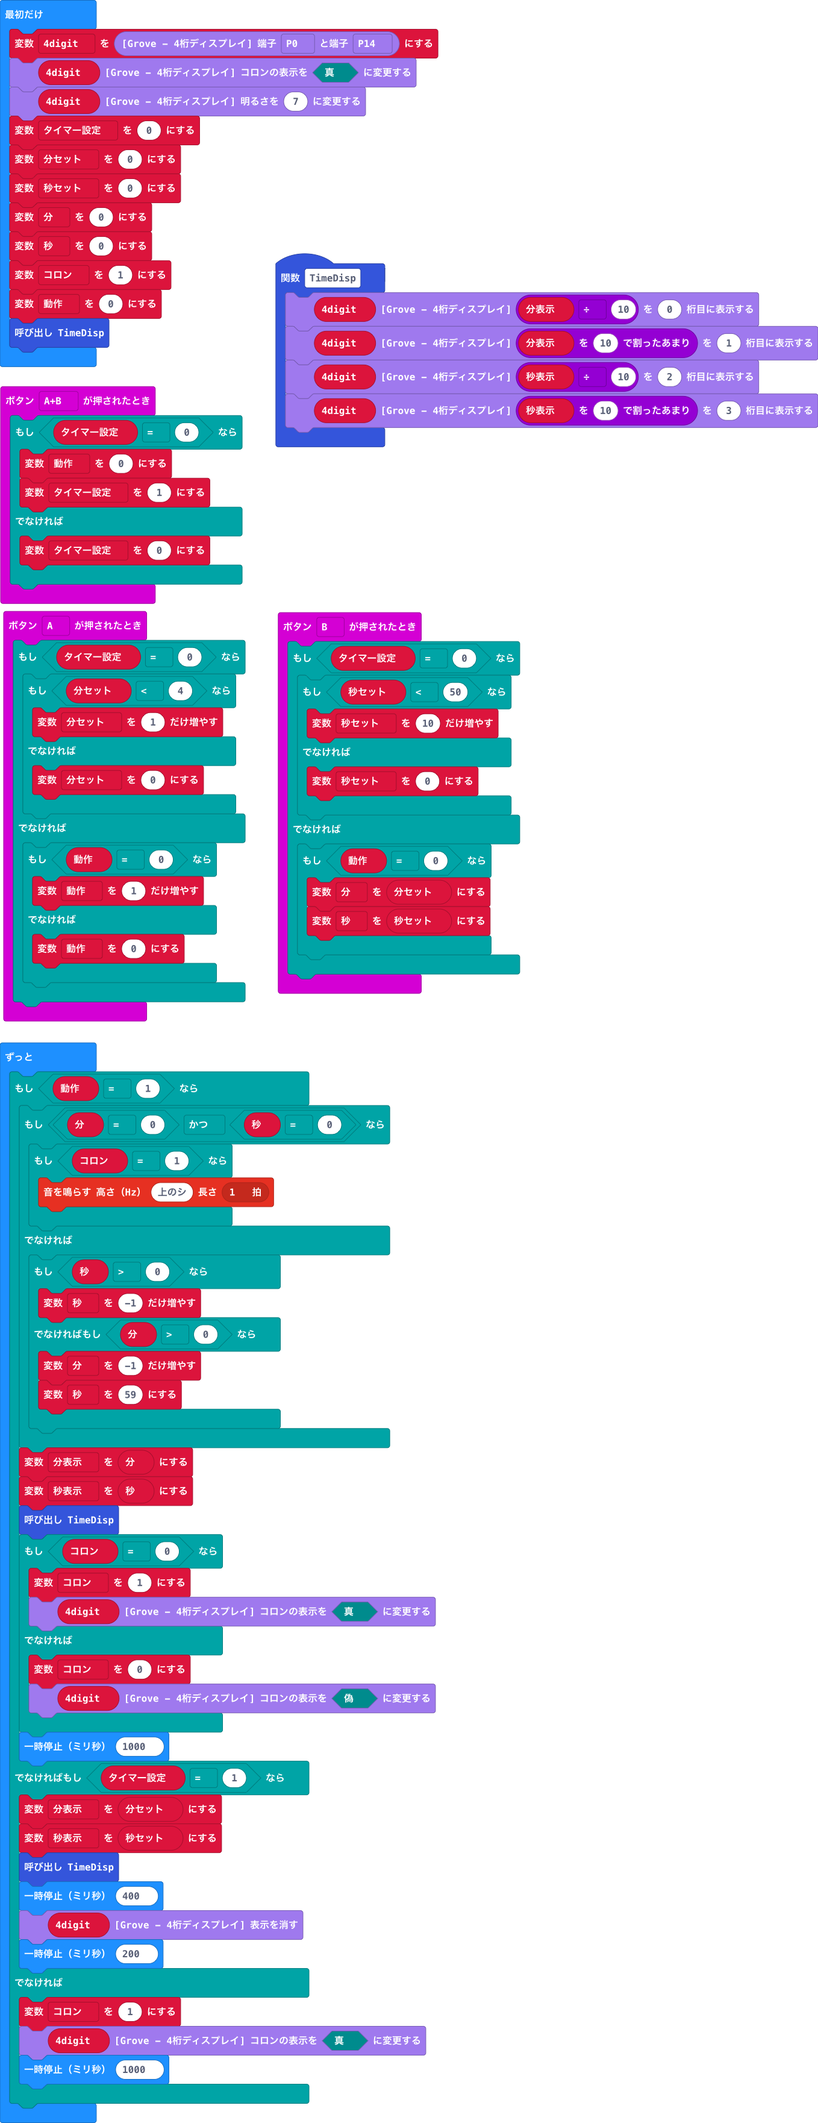
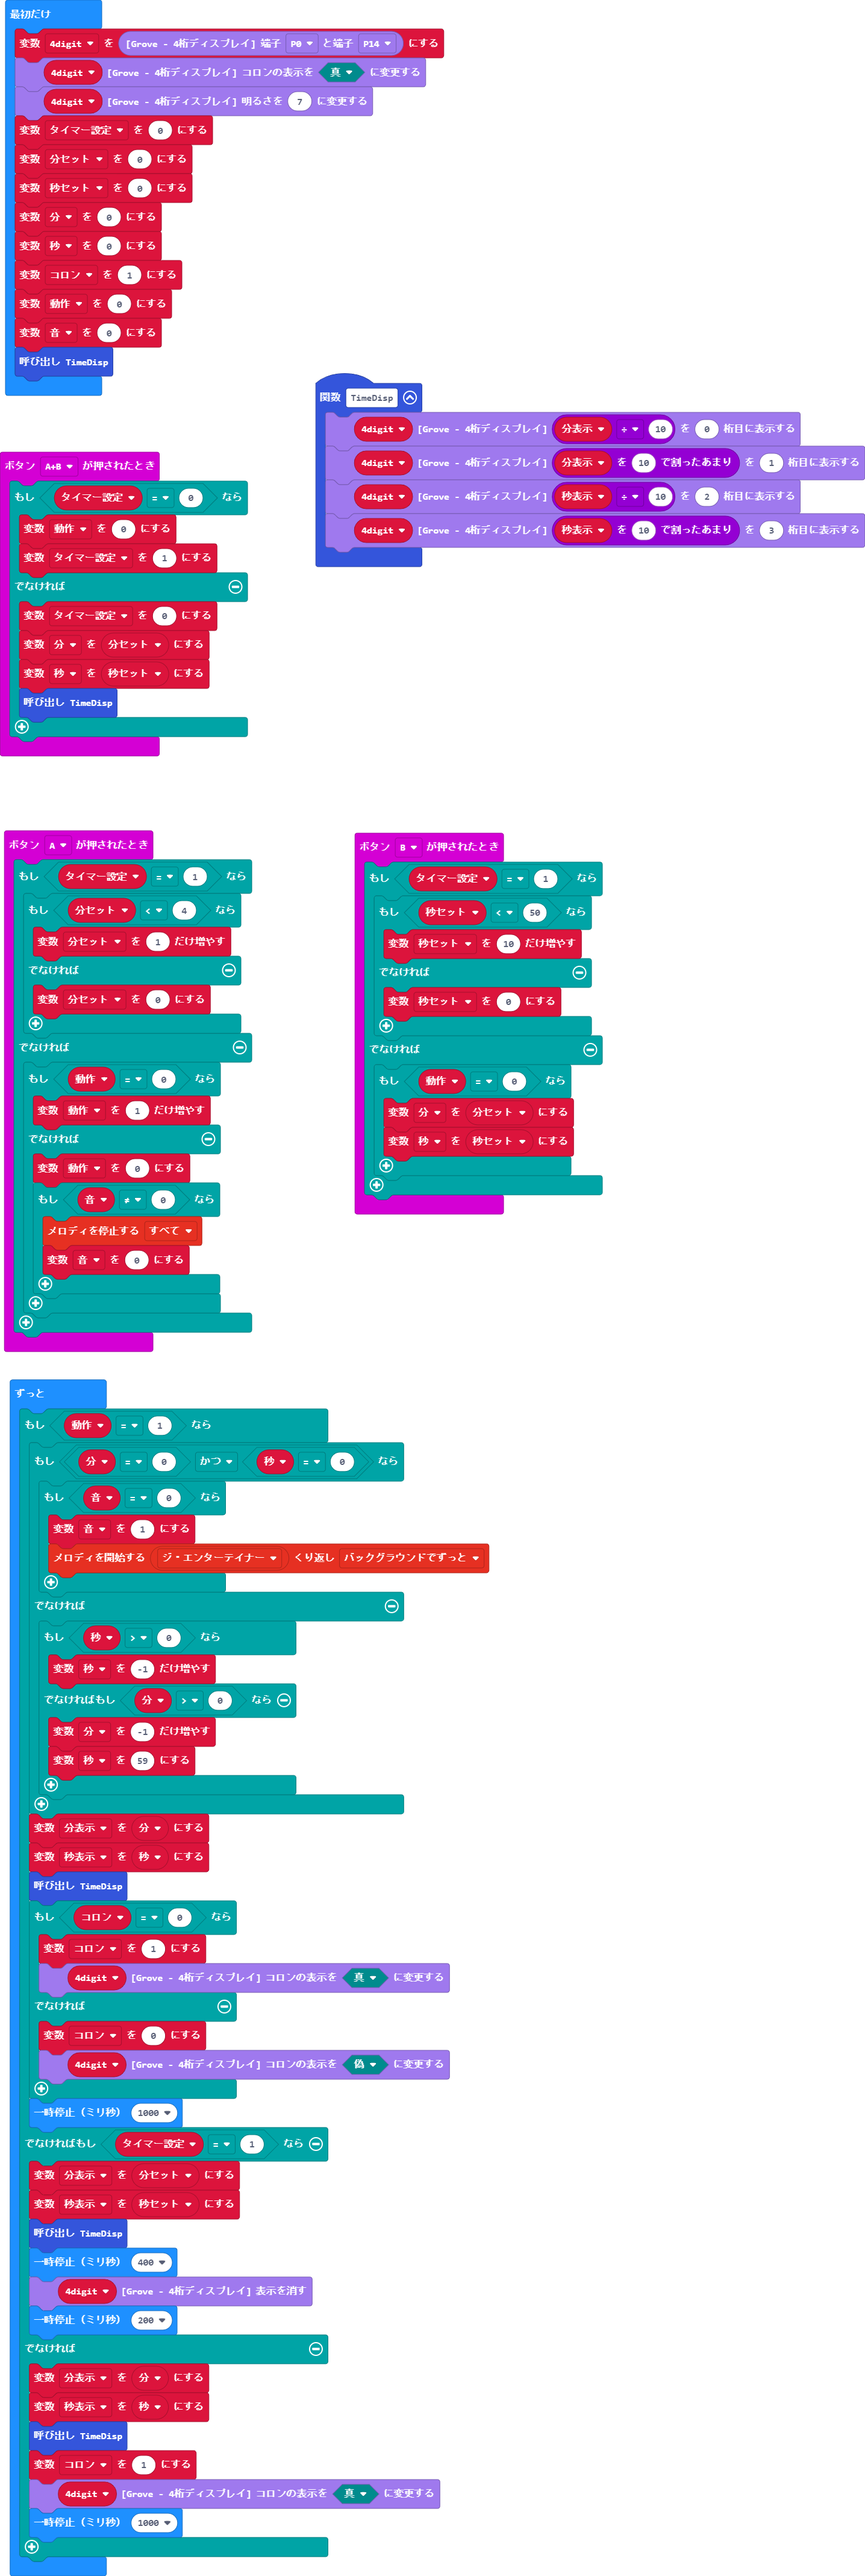
音再生修正

diff --git a/main.ts b/main.ts
@@ -1,5 +1,5 @@
 input.onButtonPressed(Button.A, function () {
-    if (タイマー設定 == 0) {
+    if (タイマー設定 == 1) {
         if (分セット < 4) {
             分セット += 1
         } else {
@@ -10,6 +10,10 @@ input.onButtonPressed(Button.A, function () {
             動作 += 1
         } else {
             動作 = 0
+            if (音 != 0) {
+                music.stopMelody(MelodyStopOptions.All)
+                音 = 0
+            }
         }
     }
 })
@@ -25,10 +29,13 @@ input.onButtonPressed(Button.AB, function () {
         タイマー設定 = 1
     } else {
         タイマー設定 = 0
+        分 = 分セット
+        秒 = 秒セット
+        TimeDisp()
     }
 })
 input.onButtonPressed(Button.B, function () {
-    if (タイマー設定 == 0) {
+    if (タイマー設定 == 1) {
         if (秒セット < 50) {
             秒セット += 10
         } else {
@@ -43,6 +50,7 @@ input.onButtonPressed(Button.B, function () {
 })
 let 秒表示 = 0
 let 分表示 = 0
+let 音 = 0
 let 動作 = 0
 let 秒 = 0
 let 分 = 0
@@ -60,12 +68,14 @@ _4digit.set(7)
 秒 = 0
 let コロン = 1
 動作 = 0
+音 = 0
 TimeDisp()
 basic.forever(function () {
     if (動作 == 1) {
         if (分 == 0 && 秒 == 0) {
-            if (コロン == 1) {
-                music.playTone(988, music.beat(BeatFraction.Whole))
+            if (音 == 0) {
+                音 = 1
+                music.startMelody(music.builtInMelody(Melodies.Entertainer), MelodyOptions.ForeverInBackground)
             }
         } else {
             if (秒 > 0) {
@@ -94,6 +104,9 @@ basic.forever(function () {
         _4digit.clear()
         basic.pause(200)
     } else {
+        分表示 = 分
+        秒表示 = 秒
+        TimeDisp()
         コロン = 1
         _4digit.point(true)
         basic.pause(1000)
